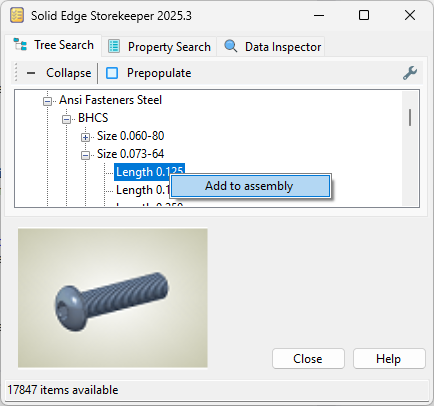
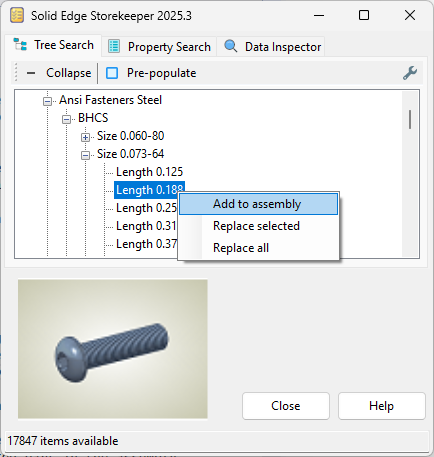
Documentation

diff --git a/Readme.md b/Readme.md
@@ -11,7 +11,7 @@
 @[Francesco Arfilli]
 
 **Beta Testers**
-@hawcad, @rob.wolbrink7456, @[Francesco Arfilli], @pedja, @TeeVar
+@hawcad, @rob.wolbrink7456, @[Francesco Arfilli], @pedja, @TeeVar, @Seva
 
 **Helpful feedback and bug reports**
 @SeanCresswell, @[Francesco Arfilli], @arekkul, @[Imre Szucs], @64Pacific, @Seva, @hawcad, @rob.wolbrink7456, @pedja, @TeeVar
@@ -28,7 +28,11 @@ The program handles two types of standard parts.  One consists of items like fas
   <img src="media/tree_search.png">
 </p>
 
-For items like fasteners, use **Tree Search**.  Navigate to the desired item, right-click and select `Add to assembly`.  If the item is already in your library, it is added to the assembly and the `Place Part` command is activated.  If not, it creates the new part, saves it to the library, then proceeds as above. 
+For items like fasteners, use **Tree Search**.  Navigate to the desired item, right-click and choose an action. If the part is not already in the library, the program creates it and saves it in the library.  The possible actions are:
+
+- `Add to assembly`  Adds the part to the assembly and activates the `Place part` command.
+- `Replace selected`  Replaces a selected part in the assembly.
+- `Replace all`  Replaces all occurrences of a selected part in the assembly.
 
 <p align="center">
   <img src="media/property_search.png">
@@ -50,11 +54,11 @@ Unlike web-based offerings, the program is integrated with your parts library an
 
 The program will never have every standard part in the world, but it can be improved.  That's where **YOU** come in!  Contributions are welcome.  Please message me on the [<ins>**Solid Edge Forum**</ins>](https://community.sw.siemens.com/s/topic/0TO4O000000MihiWAC/solid-edge), or raise an [<ins>**Issue on GitHub**</ins>](https://github.com/rmcanany/SolidEdgeStorekeeper/issues), for ideas on how to get started.
 
-Uh-oh.  The Marketing guy just showed up.  He wants to *"Synergize our stake holders and leverage this cross-promotion opportunity"*.  Uh, who talks like that?  Anyway, here he is.
+Uh-oh.  The Marketing guy just showed up.  He wants to *"Synergize our stake holders and leverage this cross-promotion opportunity"*.  Who talks like that?  Anyway, here he is.
 
->  *Hello there!! I'm Big Mike!  Do you want to do things better and faster with less work?!  Of course you do!  That's why you should check out [<ins>**Solid Edge Housekeeper**</ins>](https://github.com/rmcanany/SolidEdgeHousekeeper#readme)!  It is a batch utility for finding annoying little errors in your project!  You're going to love it!!*
+>  *Hello there!! I'm Big Mike!  Do you want to do things better and faster with less work?!  Of course you do!  That's why you need [<ins>**Solid Edge Housekeeper**</ins>](https://github.com/rmcanany/SolidEdgeHousekeeper#readme)!  It is a batch utility for finding annoying little errors in your project!  You're going to love it!!*
 
-Sorry about that.  Shall we continue?
+Sorry about that.  Now where were we?
 
 ## INSTALLATION
 
@@ -112,7 +116,7 @@ The spreadsheet contains the variables required for each size of each type of pa
 
 The material table is usually your normal SE material table.  However, for a quick test of the program, an alternative is to use `Storekeeper.mtl` from `Preferences\Templates`.  Copy it to your Solid Edge Materials directory to make it available.  On my machine, that location is `C:\Program Files\Siemens\Solid Edge 2024\Preferences\Materials`.  
 
-If you decide to continue using the program, you would eventually want to utilize your own material table, updating material names in the spreadsheet as needed. 
+If you decide to continue using the program, you would eventually want to utilize your own material table, updating material names in the spreadsheet and templates as needed. 
 
 - **OPTIONS**
   - `Read the Excel file each time the program is launched`  

diff --git a/release_notes.md b/release_notes.md
@@ -14,6 +14,18 @@ Feel free to report bugs and/or ideas for improvement on the [<ins>**Solid Edge 
 
 ## V2025.3
 
+### Replace Part
+
+Contributed by **@[Francesco Arfilli]**.  Thank you!
+
+Added the ability to replace selected parts in the assembly.
+
+![Replace Part](media/tree_search.png)
+
+- `Replace selected`  Replaces a selected part in the assembly.
+- `Replace all`  Replaces all occurrences of a selected part in the assembly.
+
+
 ### Update Template File in Background
 
 Contributed by **@[Francesco Arfilli]**.  Thank you!
@@ -26,17 +38,17 @@ Added the ability to selectively add items to the library ahead of time. (Thank 
 
 ![Prepopulate](media/prepopulate_library.png)
 
-To select an item, enable its checkbox.  Checking on a category header, `Size 0.073-64` in this example, will select all items below it.  You can select a category, then de-select any items you don't want included.  Once satisfied with the selection, click `Add to library` to start the process.
+To select an item, enable its checkbox.  Checking on a category header selects all items below it.  You can select a category, then de-select any items you don't want included.  Once satisfied with the selection, click `Add to library` to start the process.
 
 See the [<ins>**Pre-Populating the Library**</ins>](https://github.com/rmcanany/SolidEdgeStorekeeper#pre-populating-the-library) section of the Readme for details.
 
-### Bug Fixes
+### Other
 
 Fixed an issue where the form settings were not being saved in certain conditions. (Thank you **@TeeVar!**)
 
 Fixed an issue where moving the program to a new directory did not allow the user to access the interface to update file locations.   (Thank you again **@TeeVar!**)
 
-Fixed an issue where accessing certain file properties was causing an exception.  (Thank you **@[Francesco Arfilli]!**)
+Fixed an issue where accessing certain file properties was causing an exception.  (Contributed by **@[Francesco Arfilli].**  Thank you!)
 
 ## V2025.2
 
